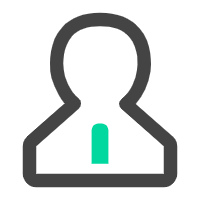
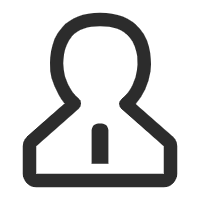
up home active page

Changed region(s): [[0.45, 0.6, 0.57, 0.84]]

diff --git a/src/components/Main.vue b/src/components/Main.vue
@@ -1,24 +1,29 @@
 <template>
   <div class="main">
   <tab-bar class="tab-bar">
-    <tab-bar-item class="tab-bar-item" path="/home" activeColor="#00d8a0">
-      <img src="../assets/img/首页.png" alt="" slot="item-icon"/>
+    <tab-bar-item class="tab-bar-item" path="/home" activeColor="#d81e06" >
+      <img src="~assets/img/首页.png" alt="" slot="item-icon"/>
+      <img src="~assets/img/首页_active.png" alt="" slot="item-icon-active"/>
       <div slot="item-text">首頁</div>
     </tab-bar-item>
-     <tab-bar-item class="tab-bar-item" activeColor="#00d8a0">
-      <img src="../assets/img/购物.png" alt="" slot="item-icon"/>
+     <tab-bar-item class="tab-bar-item" path="/cart" activeColor="#d81e06">
+      <img src="~assets/img/购物车.png" alt="" slot="item-icon"/>
+      <img src="~assets/img/购物车_active.png" alt="" slot="item-icon-active"/>
       <div slot="item-text">購物車</div>
     </tab-bar-item>
-    <tab-bar-item>
+    <tab-bar-item class="tab-bar-item" activeColor="#d81e06">
       <img src="../assets/img/会员.png" alt="" slot="item-icon"/>
+      <img src="~assets/img/会员_active.png" alt="" slot="item-icon-active"/>
       <div slot="item-text">會員</div>
     </tab-bar-item>
-    <tab-bar-item>
-      <img src="../assets/img/扫码.png" alt="" slot="item-icon"/>
-      <div slot="item-text">掃一掃</div>
+    <tab-bar-item class="tab-bar-item" activeColor="#d81e06">
+      <img src="../assets/img/我的订单.png" alt="" slot="item-icon"/>
+      <img src="~assets/img/我的订单_active.png" alt="" slot="item-icon-active"/>
+      <div slot="item-text" style="font-size:14px">我的訂單</div>
     </tab-bar-item>
-    <tab-bar-item>
-      <img src="../assets/img/我的.png" alt="" slot="item-icon"/>
+    <tab-bar-item class="tab-bar-item" activeColor="#d81e06">
+      <img rc="~assets/img/我的.png" alt="" slot="item-icon"/>
+      <img src="~assets/img/我的_active.png" alt="" slot="item-icon-active"/>
       <div slot="item-text">我的</div>
     </tab-bar-item>
   </tab-bar>
@@ -39,7 +44,7 @@ export default {
   
   data () {
     return {
-      
+      isActive:'',
       
     }
   }
@@ -49,8 +54,8 @@ export default {
 <!-- Add "scoped" attribute to limit CSS to this component only -->
 <style scoped>
 .tab-bar-item img{
-  width:24px;
-  height: 24px;
+  width:30px;
+  height: 30px;
   margin-top:2px;
   vertical-align: middle;
   margin-bottom:1px;

diff --git a/src/components/tabbar/TabBarItem.vue b/src/components/tabbar/TabBarItem.vue
@@ -1,8 +1,8 @@
 <template>
 <div class="tab-bar-item">
   <div v-if="!isActive" @click="itemClick"><slot name="item-icon"></slot></div>
-  <slot v-else name="item-icon"></slot>
-  <!-- <div><slot name="item-text"></slot></div> -->
+  <div v-else><slot name="item-icon-active"></slot></div>
+  
   <div :style="activeStyle"><slot name="item-text"></slot></div>
 </div>
   
@@ -16,8 +16,14 @@ export default {
     activeColor:{
       type:String,
       default:''
-    }
+    },
+    
   },
+  data(){
+      return{
+      
+    }
+    },
   methods:{
     itemClick(){
       this.$router.replace(this.path)
@@ -26,6 +32,7 @@ export default {
   computed:{
     isActive(){
       return this.$route.path.indexOf(this.path) !== -1;
+      
     },
     activeStyle(){
       return this.isActive ? {color:this.activeColor}:{}
@@ -37,6 +44,7 @@ export default {
 
 <style scoped>
 .tab-bar-item{
+  padding: 3px;
   flex:1;
   text-align: center;
   height: 49px;

diff --git a/src/components/tabControl/TabControl.vue b/src/components/tabControl/TabControl.vue
@@ -1,0 +1,62 @@
+<template>
+  <div class="tab-control">
+    <!-- if you click the first tab ,index =0, -->
+    <div v-for="(item,index) in title" @click="tabClick(index)" class="tab-control-item" :class="{active:index === currentIndex}">
+      <span>{{item}}</span>
+    </div>
+  </div>
+  
+</template>
+
+
+
+<script>
+export default {
+  name:"TabControl",
+  props:{
+    title:{
+      type:Array,
+      default(){
+        return[]
+      }
+    }
+  },
+  data(){
+      return{
+        currentIndex:0
+      }
+    },
+  methods:{
+    tabClick(index){
+      console.log(index)
+      this.currentIndex=this.index
+    }
+  }
+}
+</script>
+
+
+<style scoped>
+.tab-control{
+  display: flex;
+  text-align: center;
+  font-size: 18px;
+  background-color: #ffffff;
+}
+.tab-control-item{
+  flex:1;
+  line-height: 44px;
+  height: 44px;
+}
+.active{
+  color:red;
+  
+  
+}
+.active span{
+border-bottom: 3px solid red
+}
+
+
+
+</style>

diff --git a/src/components/views/Home.vue b/src/components/views/Home.vue
@@ -1,23 +1,31 @@
 <template>
   <div id="home">  
-    <nav-bar>購物車</nav-bar>
-    <router-view/> 
-    <div>
-      dddd
+    <nav-bar slot="center">購物車</nav-bar>
+    <!-- <router-view/>  -->
+    <div class="home-view">
+    <!-- <swpier><img src="~assets/img/home.png" alt=""/>
+    </swpier> -->
+    <img src="~assets/img/home.png" alt=""/>
+    <tab-control :title="title"></tab-control>
     </div>
-    <Main/>
+   
   </div>
 </template>
 
 <script>
 import NavBar from '../navbar/NavBar'
-import Main from '../Main'
+import TabControl from '../tabControl/TabControl'
 
 export default {
   name:'Home',
+  data(){
+    return{
+    title:['經典','爆款','流行']
+    }
+  },
   components: {
-    Main,
-    NavBar 
+    NavBar,
+    TabControl
   }
   
   
@@ -28,6 +36,10 @@ export default {
 
 
 <style scoped>
+.home-view img{
+  height: 100%;
+  width:100%;
+}
 
 
 

diff --git a/src/main.js b/src/main.js
@@ -1,15 +1,21 @@
 import Vue from 'vue'
 import App from './App'
 import VueRouter from 'vue-router'
+import Mint from 'mint-ui'
 import Home from './components/views/Home.vue'
+import Cart from './components/views/Cart.vue'
 
 
-
+Vue.use(Mint)
 Vue.use(VueRouter)//this is very important
 Vue.config.productionTip = false
 const routes = [
   {
     path: '/home', component:Home,
+     
+  },
+{
+    path: '/cart', component:Cart,
      
   }]
 const router = new VueRouter({
@@ -22,7 +28,8 @@ new Vue({
   model:'history',
   router,
   components: {
-    home:Home
+    home: Home,
+    cart:Cart
   },
   render: h => h(App)
 })

diff --git a/src/components/views/Profile.vue b/src/components/views/Profile.vue
@@ -1,8 +1,6 @@
 <template>
-  <div id="setting">  
-    <div>
-       <el-avatar src="https://cube.elemecdn.com/0/88/03b0d39583f48206768a7534e55bcpng.png"></el-avatar>
-    </div>
+  <div class="profile">  
+    
     <Main></main>
   </div>
 </template>
@@ -12,7 +10,7 @@
 import Main from './components/Main'
 
 export default {
-  name: 'Setting',
+  name: 'Profile',
   components: {
     Main,
    

diff --git a/src/components/views/Cart.vue b/src/components/views/Cart.vue
@@ -1,0 +1,33 @@
+<template>
+  <div id="cart">  
+    <nav-bar slot="center">購物車</nav-bar>
+    
+    
+   
+    
+    <Main/>
+  </div>
+  
+</template>
+
+
+<script>
+import NavBar from '../navbar/NavBar'
+import Main from '../Main'
+
+export default {
+  name:'Cart',
+  
+
+components: {
+    Main,
+    NavBar,
+    
+  }
+  }
+</script>
+
+
+<style scoped>
+
+</style>

diff --git a/src/components/swiper/Swiper.vue b/src/components/swiper/Swiper.vue
@@ -1,0 +1,26 @@
+<template>
+  <div class="swiper">
+    <mt-swipe :auto="4000">
+      <mt-swipe-item></mt-swipe-item>
+      <mt-swipe-item></mt-swipe-item>
+      <mt-swipe-item></mt-swipe-item>
+    </mt-swipe>
+  </div>
+  
+</template>
+
+
+<script>
+
+export default {
+  name:'Swiper',
+  methods:{
+    
+  }
+  
+}
+</script>
+
+<style scoped>
+
+</style>

diff --git a/build/webpack.base.conf.js b/build/webpack.base.conf.js
@@ -23,9 +23,11 @@ module.exports = {
       : config.dev.assetsPublicPath
   },
   resolve: {
-    extensions: ['.js', '.vue', '.json'],
+    extensions: ['.js', '.vue', '.json','png'],
     alias: {
       '@': resolve('src'),
+      'assets': resolve('src/assets'),
+      'components':resolve('src/components')
     }
   },
   module: {

diff --git a/src/components/navbar/NavBar.vue b/src/components/navbar/NavBar.vue
@@ -25,13 +25,13 @@ export default {
 }
 .left, .right{
   width: 60px;
-  background-color: blue;
+  background-color:#FFC0CB;
   
 }
 .center{
   flex:1;
-  background-color:red;
-  color: white;
+  background-color:#FFC0CB;
+  color:white;
   
 }
 

diff --git a/src/components/feature/Feature.vue b/src/components/feature/Feature.vue
@@ -1,0 +1,18 @@
+<template>
+  <div class="feature">
+
+  </div>
+</template>
+
+
+<script>
+export default {
+  
+}
+</script>
+
+
+
+<style scoped>
+
+</style>

diff --git a/src/assets/css/base.css b/src/assets/css/base.css
@@ -7,8 +7,8 @@ body{
  background-color: #f6f6f6;
  position:fixed;
 }
-.tab-bar-item{
-  flex:1;
-  text-align: center;
-  height: 49px;
+
+
+.root{
+   
 }
